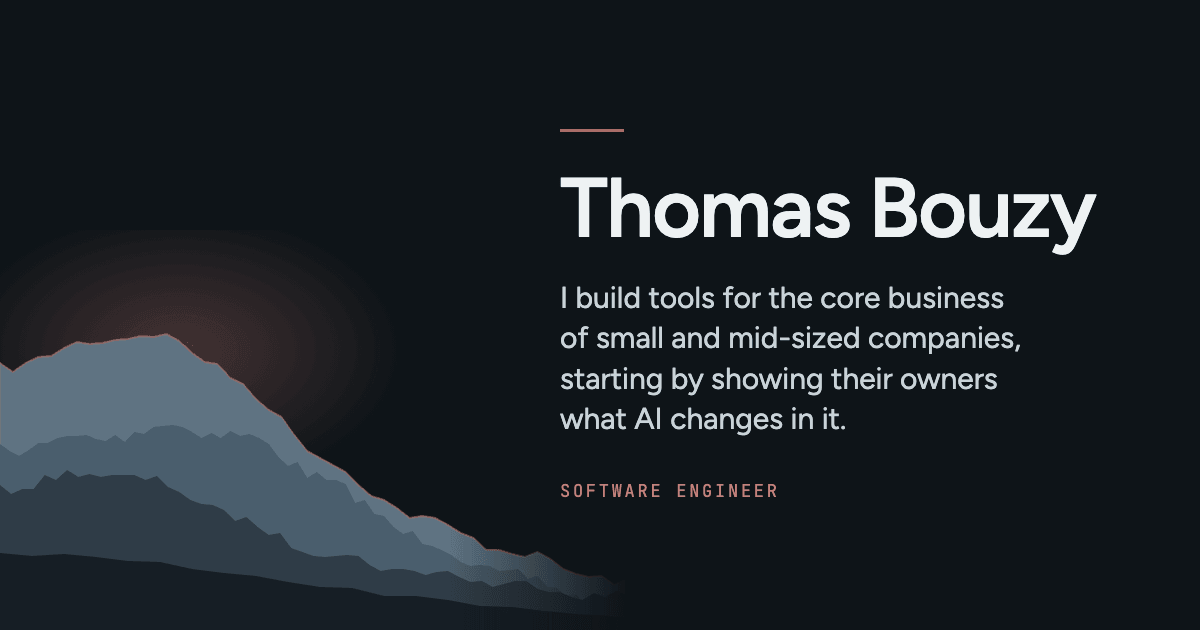
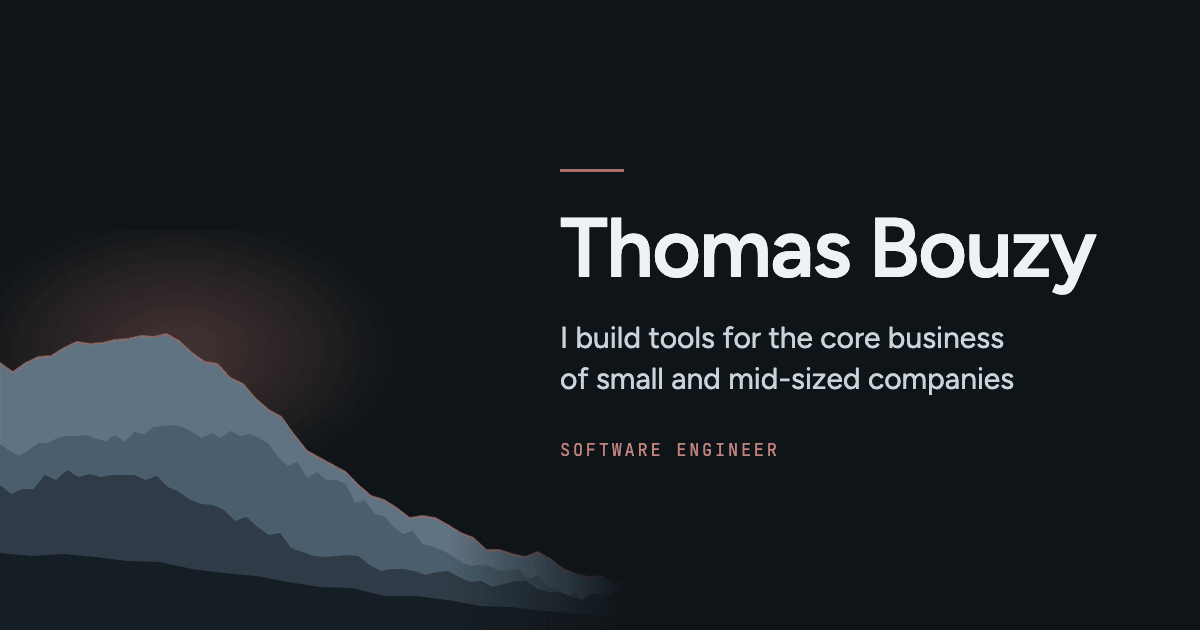
Split the hero into a title and a subtitle, and drop the Workshops' builder line
The one-sentence H1 was far too long for a title. « J'outille le métier des
PME » now stands alone, and « En commençant par montrer aux dirigeants ce que
l'IA y change. » replaces the paragraph under it, in both locales. The title
is a single string rather than two lines.

The Workshops no longer add that Thomas also builds tools: the hero says so on
the first screen, and the line read as a sales pitch. ADR 27 records both.

Changed region(s): [[0.4625, 0.2714, 0.925, 0.7238], [0.4625, 0.754, 0.6475, 0.7841], [0.4625, 0.181, 0.5242, 0.2111]]

diff --git a/src/content/types.ts b/src/content/types.ts
@@ -370,13 +370,13 @@ export interface ResumeContent {
     /** The job title, set small above the H1: "Ingénieur logiciel". */
     role: string;
     /**
-     * The promise, rendered in the H1 after the name, as two lines: the break
-     * is part of the wording, so it is written here rather than left to the
-     * browser. Held to the plain-line rule, like the blurb.
+     * The promise, rendered in the H1 after the name: short, because it is a
+     * title (ADR 27). Held to the plain-line rule, like the blurb.
      */
-    title: readonly [string, string];
+    title: string;
     /**
-     * Written for the least technical reader (ADR 14), so it is held to the
+     * The subtitle under the H1, which finishes the promise (ADR 27). Written
+     * for the least technical reader (ADR 14), so it is held to the
      * plain-line rule: no `schema.knowsAbout` term, and short.
      */
     blurb: string;
@@ -405,8 +405,6 @@ export interface ResumeContent {
     levels: readonly [Titled, Titled, Titled];
     /** Where the workshops stand: being designed, no date or price yet. */
     status: string;
-    /** That Thomas also builds tools, and that a workshop may lead there. Said, never hidden. */
-    builder: string;
     /** The primary button: the 30-minute call. */
     cta: string;
     /** For the owner who wants to hear when the first sessions open: an email. */

diff --git a/src/content/fr.ts b/src/content/fr.ts
@@ -33,12 +33,8 @@ export const fr = {
 
   hero: {
     role: 'Ingénieur logiciel',
-    title: [
-      "J'outille le métier des PME,",
-      "en commençant par montrer aux dirigeants ce que l'IA y change.",
-    ],
-    blurb:
-      "D'abord des ateliers où vous appliquez l'IA à votre propre entreprise. Ensuite, si vous le voulez, les outils qui vont avec.",
+    title: "J'outille le métier des PME",
+    blurb: "En commençant par montrer aux dirigeants ce que l'IA y change.",
     ctaBook: 'Réserver un appel gratuit',
     ctaSecondary: 'Voir les ateliers',
   },
@@ -64,8 +60,6 @@ export const fr = {
       },
     ],
     status: 'Les ateliers sont en préparation : pas encore de date, de programme ni de prix.',
-    builder:
-      'Je suis aussi ingénieur logiciel : je construis des outils pour le métier des PME. Un atelier peut mener là, si vous le voulez. Il ne sert pas à vous le vendre.',
     cta: 'Réserver un appel gratuit',
     notify: {
       text: 'Vous voulez être prévenu des premières sessions ?',

diff --git a/tests/e2e/resume.spec.ts b/tests/e2e/resume.spec.ts
@@ -53,7 +53,7 @@ test.describe('routing and locales', () => {
     await expect(page.locator('html')).toHaveAttribute('lang', 'fr');
     // The name, then the promise, in the one H1 (ADR 18).
     await expect(page.locator('h1')).toContainText('Thomas Bouzy');
-    await expect(page.locator('h1')).toContainText(RESUME.fr.hero.title.join(' '));
+    await expect(page.locator('h1')).toContainText(RESUME.fr.hero.title);
     await expect(page.getByRole('heading', { name: RESUME.fr.work.title })).toBeVisible();
 
     await gotoHome(page, '/en/');
@@ -499,7 +499,6 @@ test.describe('the AI workshops, the way in (ADR 27)', () => {
     const section = page.locator('#workshops');
     await expect(section.locator('h2')).toHaveText(w.title);
     await expect(section.locator('.offer__card')).toHaveCount(3);
-    await expect(section).toContainText(w.builder);
     const primary = section.locator('.btn-primary');
     await expect(primary).toHaveCount(1);
     await expect(primary).toHaveAttribute('href', CONTACT.booking);

diff --git a/tests/content.spec.ts b/tests/content.spec.ts
@@ -118,7 +118,7 @@ describe('EN/FR parity', () => {
       '$.nav.work',
       '$.nav.about',
       '$.nav.contact',
-      '$.hero.title[0]',
+      '$.hero.title',
       '$.hero.blurb',
       '$.hero.role',
       '$.hero.ctaSecondary',
@@ -898,12 +898,6 @@ describe('the AI workshops (ADR 27)', () => {
     for (const [path, text] of walkStrings(fr.workshops)) {
       expect(text, `a price or a date at ${path}`).not.toMatch(/€|\d/);
     }
-  });
-
-  it('say plainly that Thomas also builds the tools', () => {
-    // A workshop must never look like hidden prospecting.
-    expect(fr.workshops.builder).toMatch(/ingénieur logiciel/i);
-    expect(fr.workshops.builder).toMatch(/outils/);
   });
 
   it('are never called a formation or a training course, anywhere', () => {

diff --git a/src/content/en.ts b/src/content/en.ts
@@ -32,12 +32,8 @@ export const en = {
 
   hero: {
     role: 'Software engineer',
-    title: [
-      'I build tools for the core business of small and mid-sized companies,',
-      'starting by showing their owners what AI changes in it.',
-    ],
-    blurb:
-      'Then the software itself: built, taken over, made reliable and kept up under load, each at a published price.',
+    title: 'I build tools for the core business of small and mid-sized companies',
+    blurb: 'Starting by showing their owners what AI changes in it.',
     ctaBook: 'Book a free call',
     ctaSecondary: 'See the offers',
   },

diff --git a/src/styles/app.css b/src/styles/app.css
@@ -401,17 +401,13 @@ a {
 .hero__name {
   margin: 0 0 22px;
 }
-/* The promise, inside the H1 under the name, at display size. Two lines,
-   each of which may wrap again on a narrow screen. */
+/* The promise, inside the H1 under the name, at display size. */
 .hero__promise {
   display: block;
   font-size: clamp(34px, 4.4vw, 58px);
   line-height: 1.02;
   letter-spacing: -0.02em;
   color: var(--color-text);
-}
-.hero__promise-line {
-  display: block;
   text-wrap: pretty;
 }
 

diff --git a/src/lib/og.ts b/src/lib/og.ts
@@ -37,7 +37,7 @@ export function ogCard(route: Route): OgCard {
     return {
       src,
       title: SITE.author,
-      line: t.hero.title.join(' '),
+      line: t.hero.title,
       foot: SIGNATURE[locale],
       home: true,
     };

diff --git a/docs/adr/0027-software-engineer-and-the-workshops-as-the-way-in.md b/docs/adr/0027-software-engineer-and-the-workshops-as-the-way-in.md
@@ -40,14 +40,16 @@ This overrides:
 - ADR 22, which made "fullstack" the identity. Its three levels of technology
   naming stay; only the identity changes.
 
-**The hero is one sentence, word for word:** « J'outille le métier des PME, en
-commençant par montrer aux dirigeants ce que l'IA y change. » In English: "I
-build tools for the core business of small and mid-sized companies, starting
-by showing their owners what AI changes in it." *PME* covers mid-sized
-companies too, and their *dirigeants* are usually their owners, so the English
-says both. The sentence is in the third person, so it reads the same whatever
-the address; the rest of the French says *vous*
-([ADR 26](0026-the-site-says-vous.md)).
+**The hero is a title and a subtitle, word for word:** the H1 says « J'outille
+le métier des PME » and the line under it « En commençant par montrer aux
+dirigeants ce que l'IA y change. » In English: "I build tools for the core
+business of small and mid-sized companies", then "Starting by showing their
+owners what AI changes in it." They were first one sentence in the H1, which
+was far too long for a title; the subtitle replaced the paragraph that sat
+under it. *PME* covers mid-sized companies too, and their *dirigeants* are
+usually their owners, so the English says both. The words are in the third
+person, so they read the same whatever the address; the rest of the French
+says *vous* ([ADR 26](0026-the-site-says-vous.md)).
 
 **The old promise moves into the problem section**, whose kicker, H2 and lead
 now say it: "Ton logiciel existe déjà ?", then « Je reprends et fais évoluer tes
@@ -65,8 +67,9 @@ and before the software Offers.** They are the way in, so:
   The section says they are being designed. Its primary button is the free
   call, and an email lets an owner ask to hear when the first sessions open: the
   site is static and sends nothing anywhere ([ADR 7](0007-serving-the-site-ourselves-on-railway.md));
-- it says plainly that Thomas also builds tools and that a workshop can lead
-  there. A workshop must never look like hidden prospecting.
+- it does not add that Thomas also builds tools: the hero already says so on
+  the first screen, and a line saying a workshop is not there to sell them
+  read as a sales pitch. A workshop must never look like hidden prospecting.
 
 **They are never called a *formation*, nor a "training course".** In France a
 *formation* names a regulated framework the workshops do not use. They are
